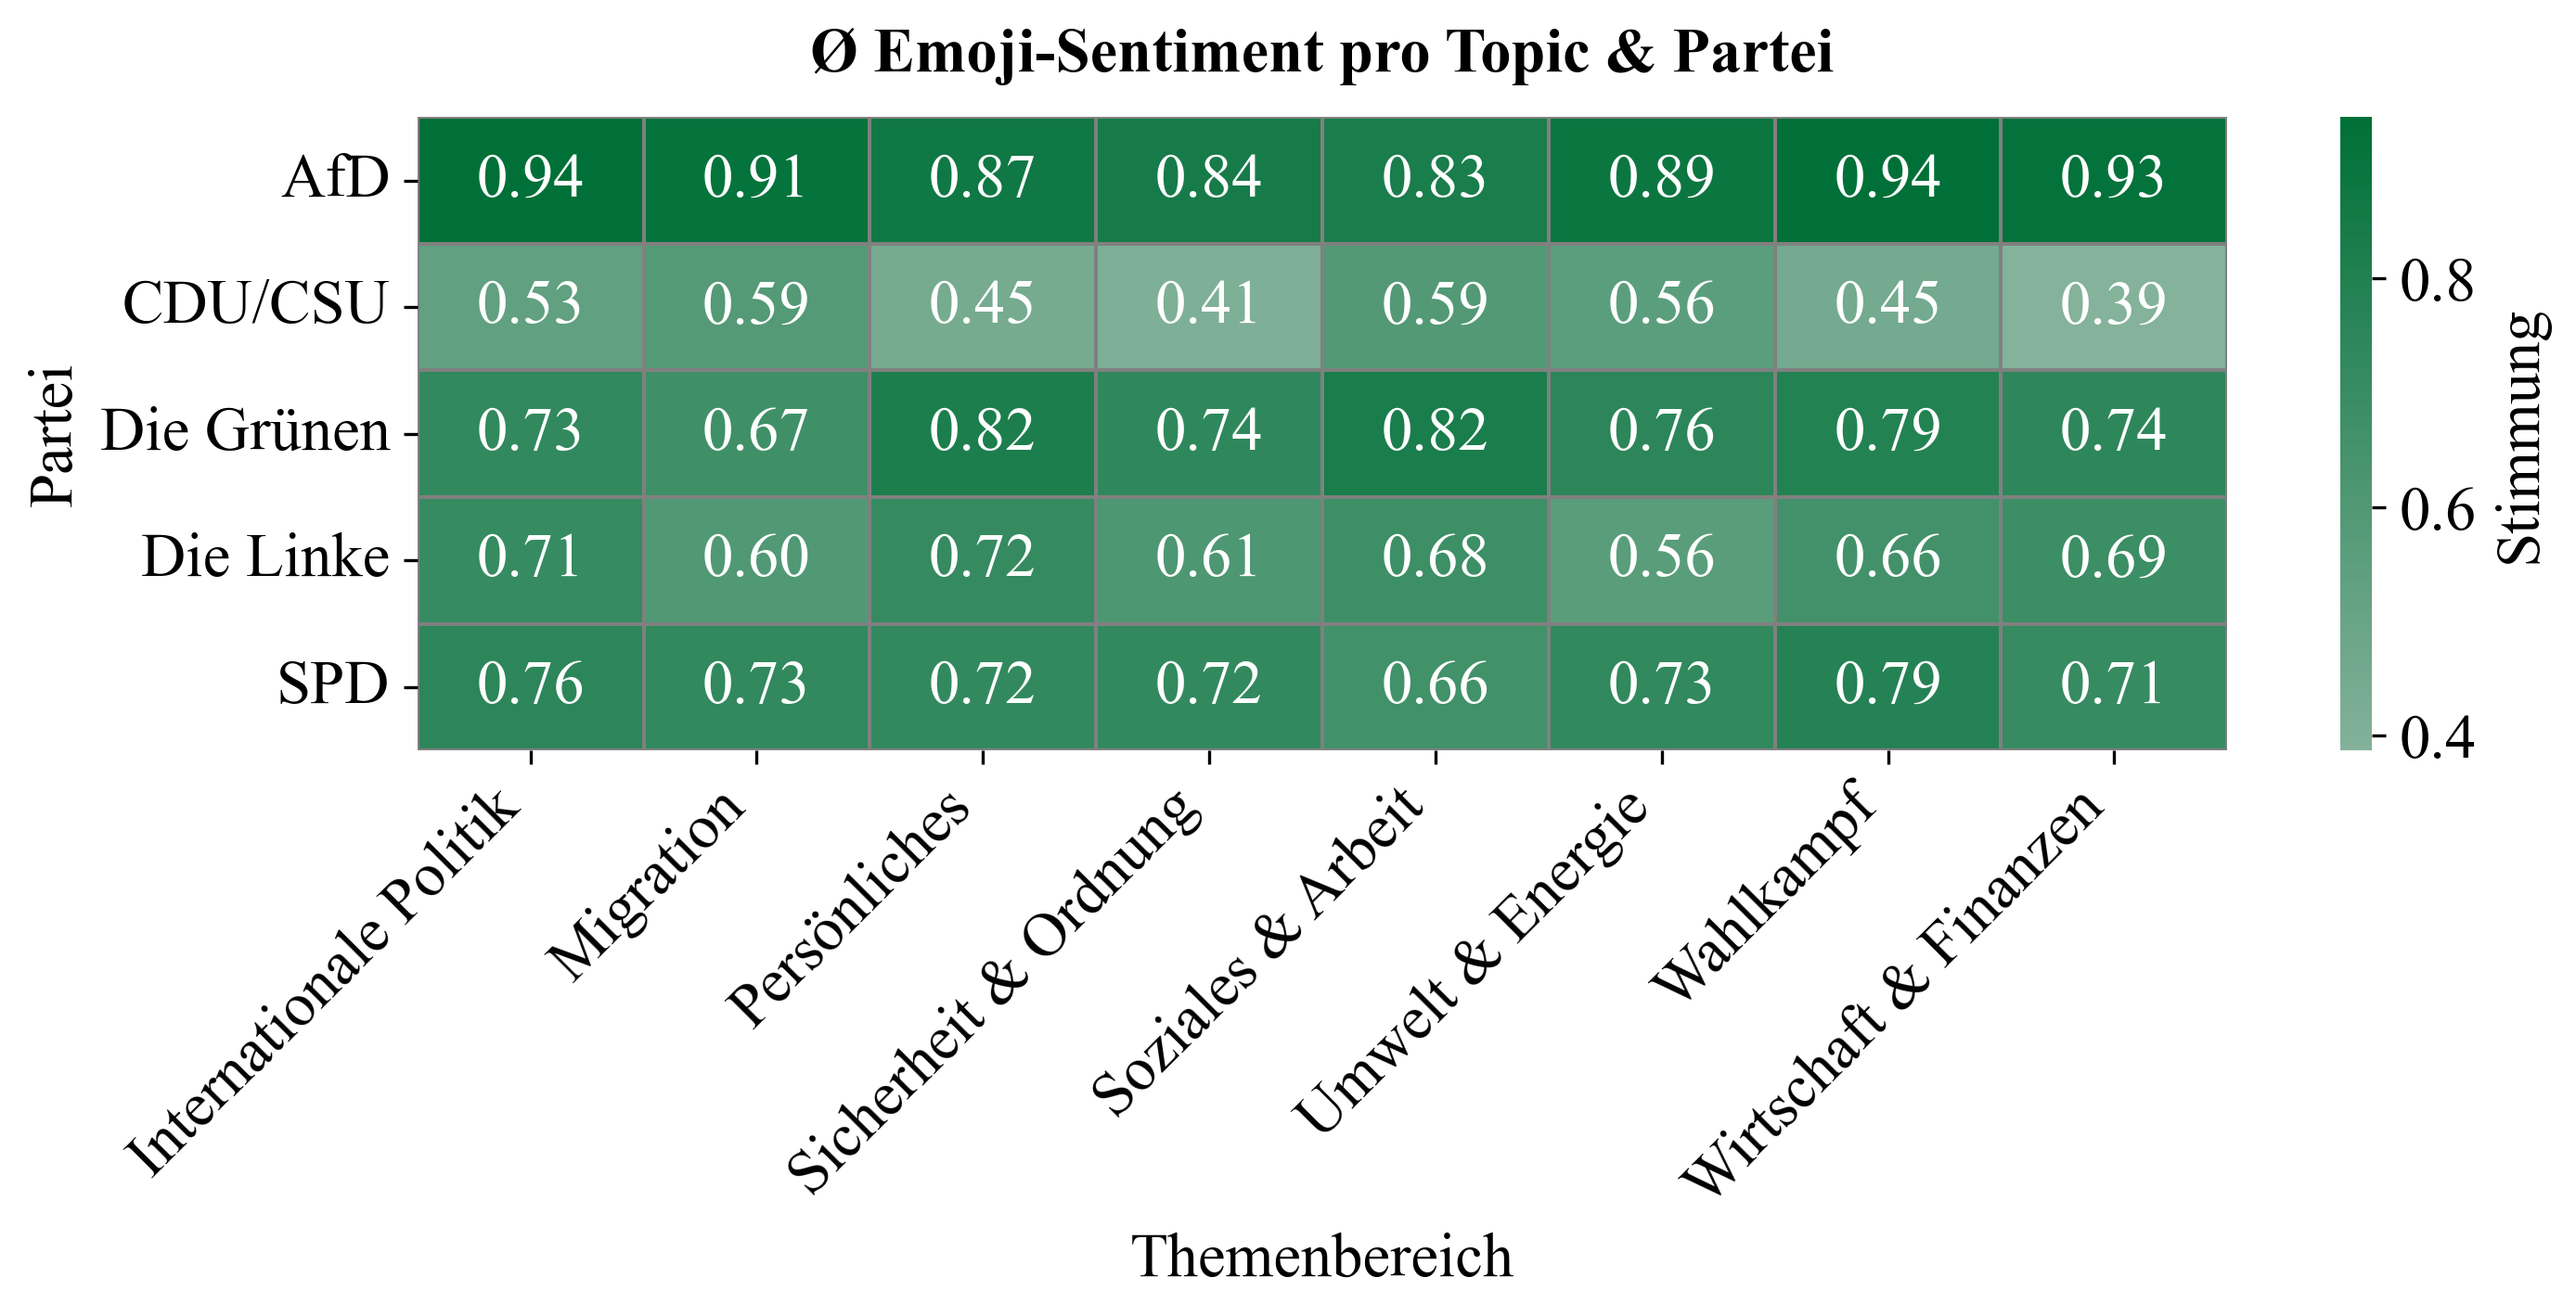
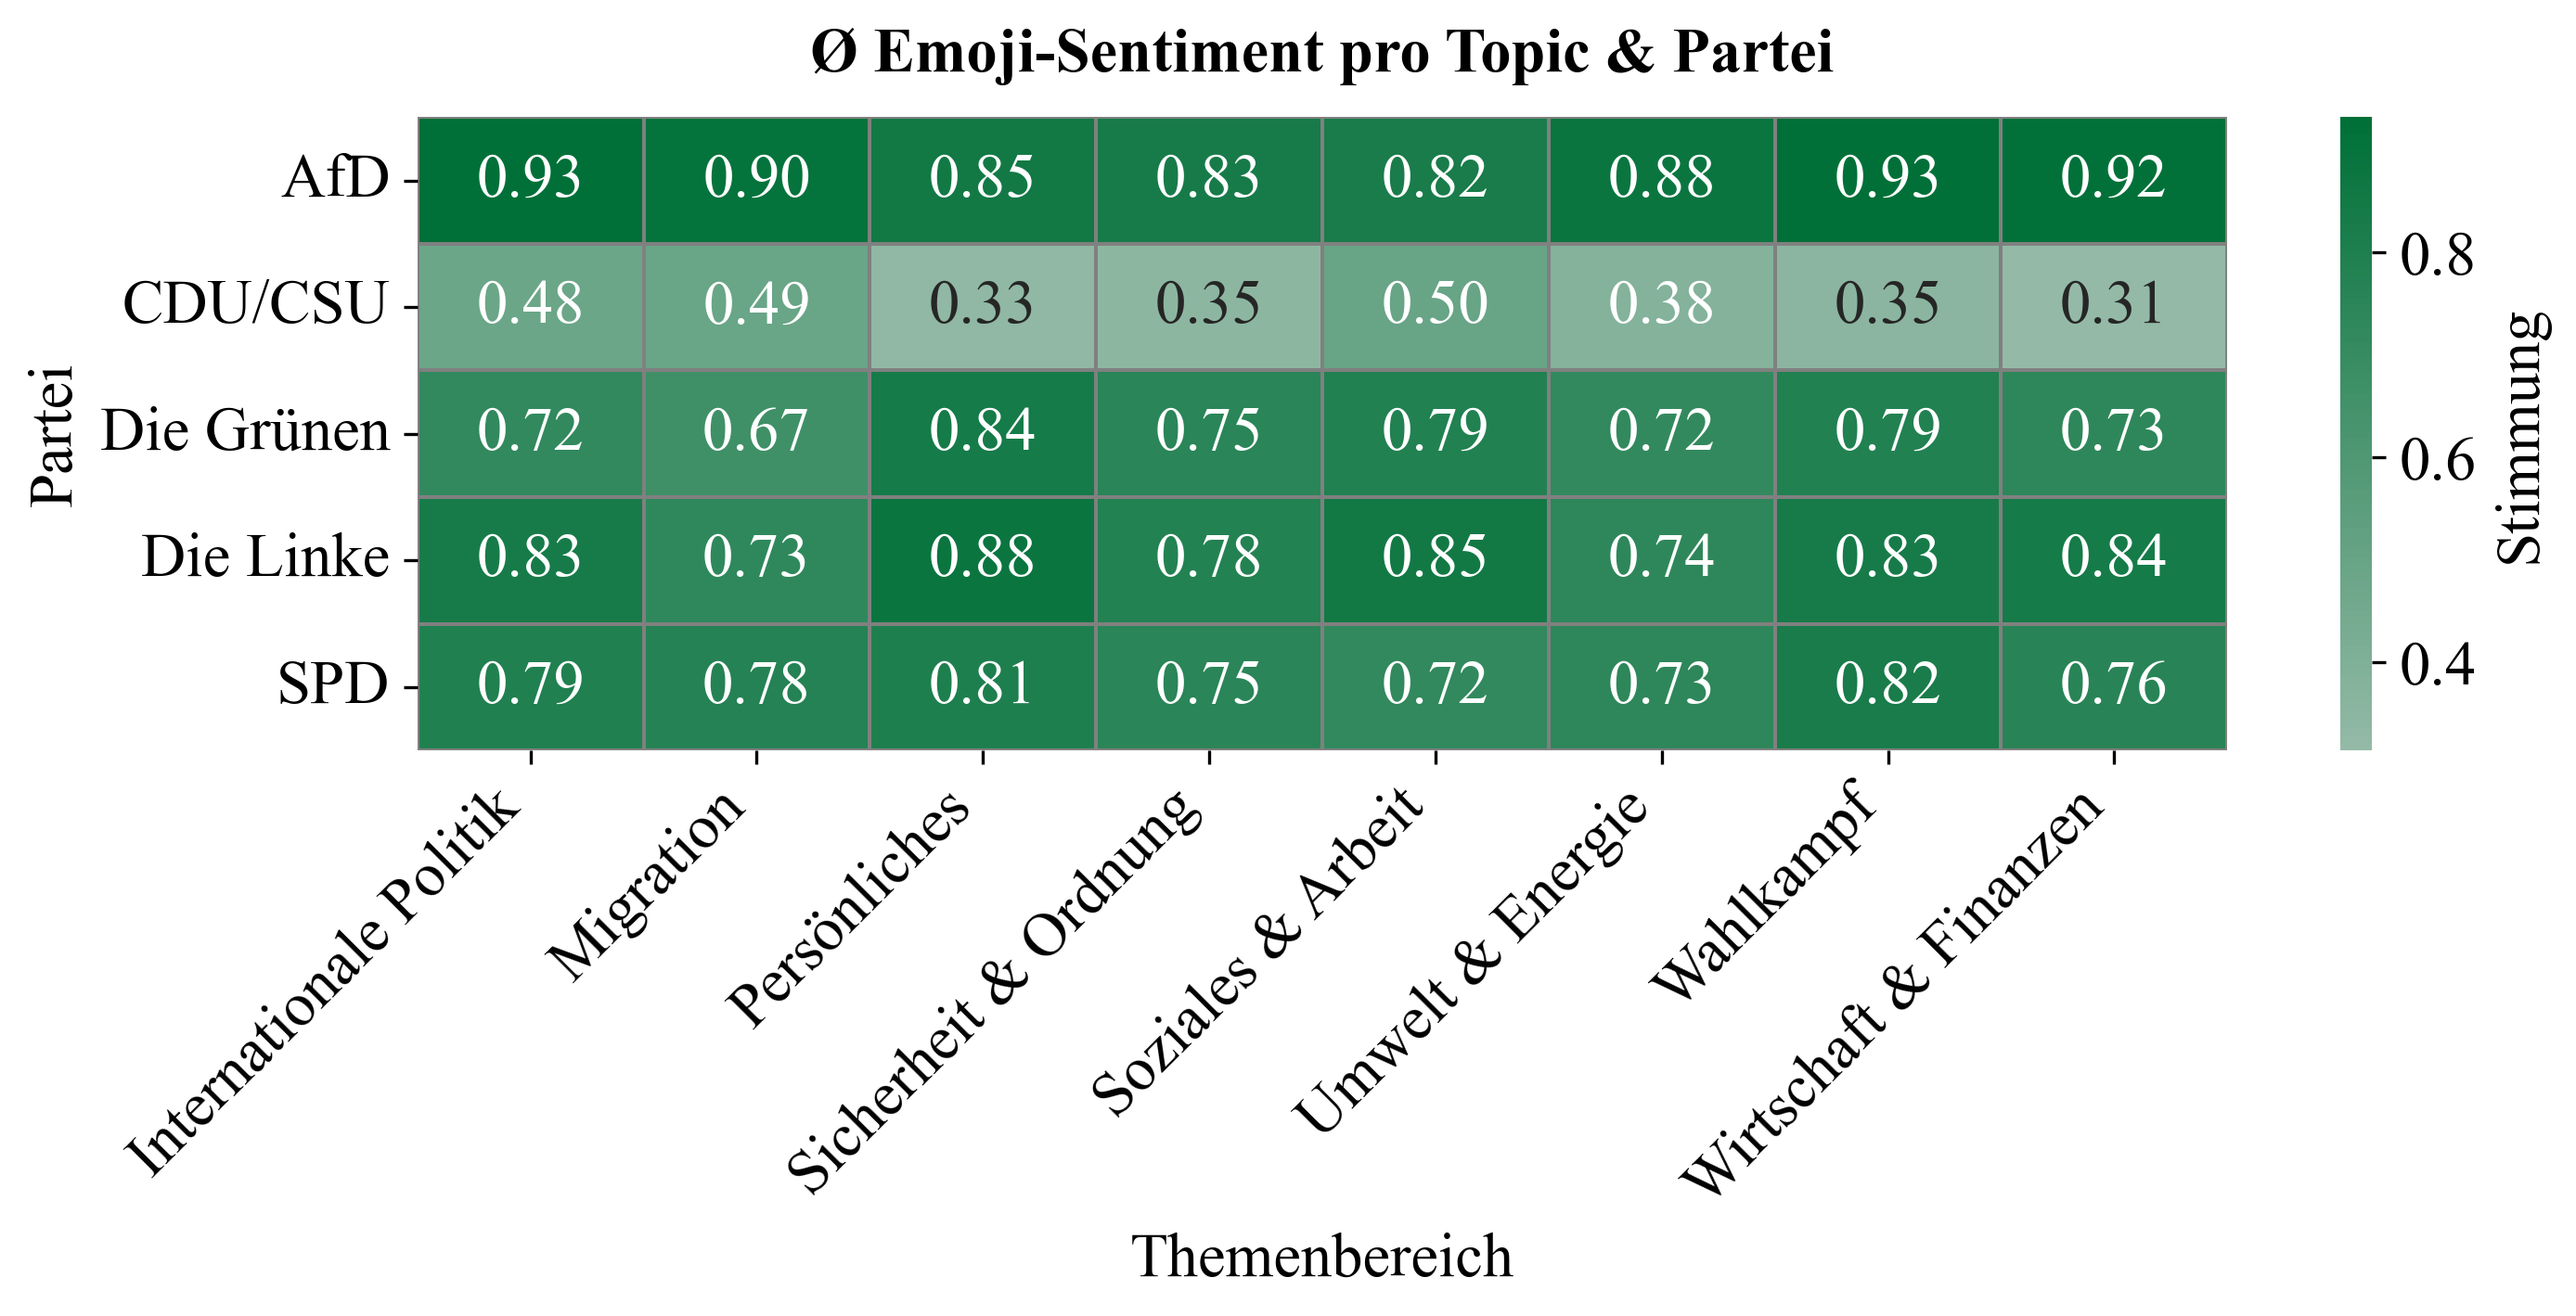
Correct pink heart analysis, add missing emojis to emoji-lexikon

diff --git a/scripts/evaluation/sentiment_evaluation.py b/scripts/evaluation/sentiment_evaluation.py
@@ -45,11 +45,23 @@ def compute_final_sentiment(row):
     return np.nan
 
 def has_heart(emojis, heart):
-    """Checks if the heart emoji is present in the emojis."""
+    """Checks if the heart emoji is present in emojis, accounting for Unicode-escaped forms."""
+    
     if isinstance(emojis, list):
         return heart in emojis
     if isinstance(emojis, str):
         return heart in emojis
+    return False
+
+def has_pink_heart(emojis):
+    """Returns True if the pink heart emoji (🩷) is present, including unicode-escaped form."""
+    if isinstance(emojis, list):
+        for e in emojis:
+            if e == "🩷" or e == "\\U0001fa77":
+                return True
+    elif isinstance(emojis, str):
+        if "🩷" in emojis or "\\U0001fa77" in emojis:
+            return True
     return False
 
 def final_sentiment_label(val):
@@ -436,7 +448,6 @@ def plot_final_sentiment_distribution(all_comments_df_valid):
 
     plt.grid(axis="y", linestyle="--", alpha=0.7)
     plt.tight_layout()
-    plt.show()
 
     output_dir = f"plots/sentiment_analysis"
     os.makedirs(output_dir, exist_ok=True)
@@ -574,10 +585,6 @@ def plot_engagement_vs_sentiment(all_comments_df_valid, output_dir="plots/sentim
 def show_emoji_usage(all_comments_df):
     """Shows the share of comments with specific heart emojis by party."""
     all_comments_df["has_emoji"] = ~all_comments_df["emoji_sentiment"].isna()
-    all_comments_df["has_blue_heart"] = all_comments_df["extracted_emojis"].apply(lambda x: has_heart(x, "💙"))
-    all_comments_df["has_green_heart"] = all_comments_df["extracted_emojis"].apply(lambda x: has_heart(x, "💚"))
-    all_comments_df["has_red_heart"] = all_comments_df["extracted_emojis"].apply(lambda x: has_heart(x, "❤"))
-    all_comments_df["has_pink_heart"] = all_comments_df["extracted_emojis"].apply(lambda x: has_heart(x, "🩷"))
 
     # share by party
     heart_cols = ["has_blue_heart", "has_green_heart", "has_red_heart", "has_pink_heart"]
@@ -637,7 +644,7 @@ def main():
         df["has_blue_heart"] = df["extracted_emojis"].apply(lambda x: has_heart(x, "💙"))
         df["has_green_heart"] = df["extracted_emojis"].apply(lambda x: has_heart(x, "💚"))
         df["has_red_heart"] = df["extracted_emojis"].apply(lambda x: has_heart(x, "❤"))
-        df["has_pink_heart"] = df["extracted_emojis"].apply(lambda x: has_heart(x, "🩷"))
+        df["has_pink_heart"] = df["extracted_emojis"].apply(lambda x: has_pink_heart(x))
         all_comments.append(df)
 
     if not all_comments:
@@ -646,7 +653,6 @@ def main():
 
     all_comments_df = pd.concat(all_comments, ignore_index=True)
     all_comments_df_valid = all_comments_df[~all_comments_df["final_sentiment"].isna()]
-
 
     # Create plots
     # plot sentiment distributions
@@ -671,11 +677,10 @@ def main():
     coherence_df["match"] = coherence_df["emoji_sentiment"] == coherence_df["sentiment_num"]
 
     coherence_rate = coherence_df.groupby("party")["match"].mean()
-    print("\nKohärenzrate emoji vs. text pro Partei:")
+    print("Coherence emoji vs text by party:")
     print(coherence_rate)
 
-
-    # comare engagement vs sentiment
+    # compare engagement vs sentiment
     plot_engagement_vs_sentiment(all_comments_df_valid)
 
    # show emoji usage
@@ -687,7 +692,6 @@ def main():
     df_sentiment_topic = merge_comments_with_topics(all_comments_df_valid, topic_dir)
     if df_sentiment_topic is not None:
         analyze_sentiment_by_topic(df_sentiment_topic, output_sentiment_topic_dir)
-
 
 if __name__ == "__main__":
     main()

diff --git a/scripts/analysis/sentiment_emoji_analysis.py b/scripts/analysis/sentiment_emoji_analysis.py
@@ -40,6 +40,20 @@ def save_emoji_counts(counter, path):
     df = pd.DataFrame(counter.items(), columns=["emoji", "count"]).sort_values("count", ascending=False)
     df.to_csv(path, index=False)
 
+def resolve_sentiment(row):
+    """Chooses sentiment from given scores, gives neutral sentiment is two scores are equal"""
+    scores = {
+        "negative": row["score_neg"],
+        "neutral": row["score_neu"],
+        "positive": row["score_pos"]
+    }
+    max_val = max(scores.values())
+    top_labels = [label for label, score in scores.items() if score == max_val]
+
+    if len(top_labels) > 1:
+        return "neutral"
+    return top_labels[0]
+
 def preprocess_emoji_data(input_path):
     """Preprocesses the emoji sentiment data."""
     emoji_data = pd.read_csv(input_path, sep=";")
@@ -51,11 +65,12 @@ def preprocess_emoji_data(input_path):
 
     # sentiment label based on maximum share of positive, negative, neutral
     # sentiment_label: 1 = positive, 0 = neutral, -1 = negative
-    emoji_data['sentiment_label'] = emoji_data[['score_neg', 'score_neu', 'score_pos']].idxmax(axis=1)
-    emoji_data['sentiment_label'] = emoji_data['sentiment_label'].map({
-        'score_neg': -1,
-        'score_neu': 0,
-        'score_pos': 1
+    emoji_data['sentiment_label_str'] = emoji_data.apply(resolve_sentiment, axis=1)
+
+    emoji_data['sentiment_label'] = emoji_data['sentiment_label_str'].map({
+        'negative': -1,
+        'neutral': 0,
+        'positive': 1
     })
 
     return emoji_data
@@ -78,6 +93,8 @@ def compute_emoji_sentiment(input_folder_sentiment, input_dir, emoji_df, folder_
         df_sent = pd.read_csv(file)
         # get emojis of original comments
         df_orig['emojis'] = df_orig['text'].apply(lambda x: [e['emoji'] for e in emoji.emoji_list(str(x))])
+
+        
         emoji_sentiments = []
         extracted_emojis = []
         for idx, row in df_sent.iterrows():
@@ -148,9 +165,9 @@ def main():
 
     # Process extracted emoji sentiment data
     emoji_df = preprocess_emoji_data(input_path_emoji)
+
     print("Unique vals of sentiment label", emoji_df['sentiment_label'].unique())
     compute_emoji_sentiment(input_folder_sentiment, input_dir, emoji_df, output_folder_sentiment)
-
 
 if __name__ == "__main__":
     main()
